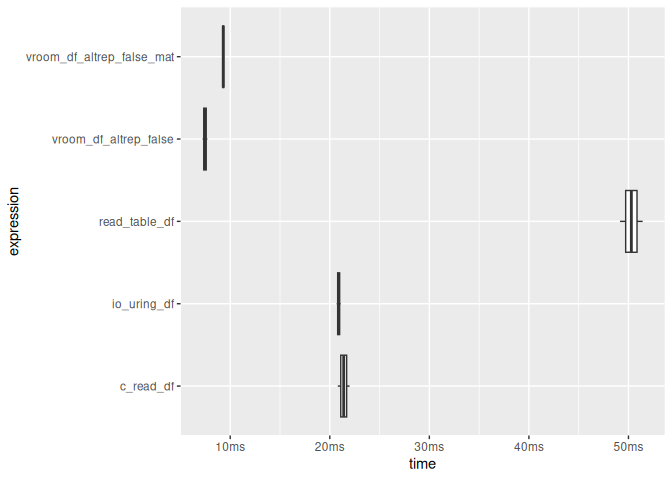
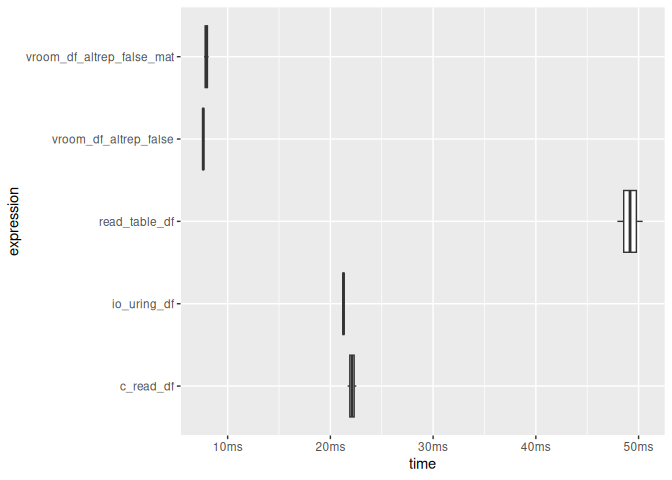
some intermdiary work

diff --git a/README.md b/README.md
@@ -190,7 +190,7 @@ tcc_read_cstring(ptr)
 tcc_read_bytes(ptr, 5)
 #> [1] 68 65 6c 6c 6f
 tcc_ptr_addr(ptr, hex = TRUE)
-#> [1] "0x6020b825c850"
+#> [1] "0x62611ab05410"
 tcc_ptr_is_null(ptr)
 #> [1] FALSE
 tcc_free(ptr)
@@ -221,11 +221,11 @@ through output parameters.
 ptr_ref <- tcc_malloc(.Machine$sizeof.pointer %||% 8L)
 target <- tcc_malloc(8)
 tcc_ptr_set(ptr_ref, target)
-#> <pointer: 0x6020b82bb6a0>
+#> <pointer: 0x62611d266410>
 tcc_data_ptr(ptr_ref)
-#> <pointer: 0x6020b66b8af0>
+#> <pointer: 0x62611ae4a9f0>
 tcc_ptr_set(ptr_ref, tcc_null_ptr())
-#> <pointer: 0x6020b82bb6a0>
+#> <pointer: 0x62611d266410>
 tcc_free(target)
 #> NULL
 tcc_free(ptr_ref)
@@ -288,8 +288,8 @@ bench::mark(
 #> # A tibble: 2 × 6
 #>   expression      min   median `itr/sec` mem_alloc `gc/sec`
 #>   <bch:expr> <bch:tm> <bch:tm>     <dbl> <bch:byt>    <dbl>
-#> 1 Rtinycc       898ms    898ms      1.11   134.1MB    11.1 
-#> 2 Rbuiltin      542µs    570µs   1187.      9.05KB     6.16
+#> 1 Rtinycc       918ms    918ms      1.09   134.1MB     16.3
+#> 2 Rbuiltin      545µs    566µs   1675.      9.05KB     12.0
 
 # For performance-sensitive code, move the loop into C and operate on arrays.
 ffi_vec <- tcc_ffi() |>
@@ -318,8 +318,8 @@ bench::mark(
 #> # A tibble: 2 × 6
 #>   expression        min   median `itr/sec` mem_alloc `gc/sec`
 #>   <bch:expr>   <bch:tm> <bch:tm>     <dbl> <bch:byt>    <dbl>
-#> 1 Rtinycc_vec    97.1µs  103.5µs     9579.    52.8KB     6.16
-#> 2 Rbuiltin_vec     17µs   18.4µs    43268.    78.2KB    34.6
+#> 1 Rtinycc_vec    97.3µs    104µs     9487.    52.8KB     15.0
+#> 2 Rbuiltin_vec     17µs   18.4µs    45775.    78.2KB     32.1
 ```
 
 ### Variadic calls (e.g. `Rprintf` style)
@@ -441,7 +441,7 @@ ffi <- tcc_ffi() |>
 
 x <- as.integer(1:100) # to avoid ALTREP
 .Internal(inspect(x))
-#> @6020cb874538 13 INTSXP g0c0 [REF(65535)]  1 : 100 (compact)
+#> @6261315b0490 13 INTSXP g0c0 [REF(65535)]  1 : 100 (compact)
 ffi$sum_array(x, length(x))
 #> [1] 5050
 
@@ -457,7 +457,7 @@ y[1]
 #> [1] 11
 
 .Internal(inspect(x))
-#> @6020cb874538 13 INTSXP g0c0 [REF(65535)]  11 : 110 (expanded)
+#> @6261315b0490 13 INTSXP g0c0 [REF(65535)]  11 : 110 (expanded)
 ```
 
 ## Advanced FFI features
@@ -484,15 +484,15 @@ ffi <- tcc_ffi() |>
 
 p1 <- ffi$struct_point_new()
 ffi$struct_point_set_x(p1, 0.0)
-#> <pointer: 0x6020bff5ca80>
+#> <pointer: 0x626122e0c670>
 ffi$struct_point_set_y(p1, 0.0)
-#> <pointer: 0x6020bff5ca80>
+#> <pointer: 0x626122e0c670>
 
 p2 <- ffi$struct_point_new()
 ffi$struct_point_set_x(p2, 3.0)
-#> <pointer: 0x6020b906b2a0>
+#> <pointer: 0x6261309d4ae0>
 ffi$struct_point_set_y(p2, 4.0)
-#> <pointer: 0x6020b906b2a0>
+#> <pointer: 0x6261309d4ae0>
 
 ffi$distance(p1, p2)
 #> [1] 5
@@ -537,9 +537,9 @@ ffi <- tcc_ffi() |>
 
 s <- ffi$struct_flags_new()
 ffi$struct_flags_set_active(s, 1L)
-#> <pointer: 0x6020bbd6bb70>
+#> <pointer: 0x62612c85ca30>
 ffi$struct_flags_set_level(s, 9L)
-#> <pointer: 0x6020bbd6bb70>
+#> <pointer: 0x62612c85ca30>
 ffi$struct_flags_get_active(s)
 #> [1] 1
 ffi$struct_flags_get_level(s)
@@ -831,7 +831,7 @@ ffi <- tcc_ffi() |>
   tcc_compile()
 
 ffi$struct_point_new()
-#> <pointer: 0x6020bbb51fe0>
+#> <pointer: 0x626130b2ff80>
 ffi$enum_status_OK()
 #> [1] 0
 ffi$global_global_counter_get()
@@ -947,11 +947,11 @@ if (Sys.info()[["sysname"]] == "Linux") {
 #> # A tibble: 5 × 13
 #>   expression     min  median `itr/sec` mem_alloc `gc/sec` n_itr  n_gc total_time
 #>   <bch:expr> <bch:t> <bch:t>     <dbl> <bch:byt>    <dbl> <int> <dbl>   <bch:tm>
-#> 1 read_tabl… 49.15ms 50.29ms      19.9    6.33MB        0     2     0    100.6ms
-#> 2 vroom_df_…  7.22ms  7.46ms     134.     1.22MB        0     2     0     14.9ms
-#> 3 vroom_df_…  9.22ms   9.3ms     108.     1.22MB        0     2     0     18.6ms
-#> 4 c_read_df   20.8ms  21.4ms      46.7    1.23MB        0     2     0     42.8ms
-#> 5 io_uring_… 20.69ms 20.89ms      47.9    1.23MB        0     2     0     41.8ms
+#> 1 read_tabl… 47.94ms 49.17ms      20.3    6.33MB        0     2     0     98.3ms
+#> 2 vroom_df_…  7.56ms  7.62ms     131.     1.22MB        0     2     0     15.2ms
+#> 3 vroom_df_…  7.71ms  7.92ms     126.     1.22MB        0     2     0     15.8ms
+#> 4 c_read_df  21.68ms  22.1ms      45.2    1.23MB        0     2     0     44.2ms
+#> 5 io_uring_… 21.19ms 21.28ms      47.0    1.23MB        0     2     0     42.6ms
 #> # ℹ 4 more variables: result <list>, memory <list>, time <list>, gc <list>
 ```
 
@@ -1142,10 +1142,10 @@ print(timings)
 #> # A tibble: 4 × 13
 #>   expression            min   median `itr/sec` mem_alloc `gc/sec` n_itr  n_gc
 #>   <bch:expr>       <bch:tm> <bch:tm>     <dbl> <bch:byt>    <dbl> <int> <dbl>
-#> 1 R                606.52ms 623.27ms      1.62     782KB    0.539     3     1
-#> 2 quickr             3.62ms   4.16ms    240.       782KB    2.62    457     5
-#> 3 Rtinycc_quick     17.02ms  17.26ms     57.8      796KB    0.503   115     1
-#> 4 Rtinycc_manual_c   55.5ms  56.25ms     17.6      796KB    0.502    35     1
+#> 1 R                600.16ms 602.72ms      1.66     782KB     0        4     0
+#> 2 quickr             3.67ms   4.03ms    247.       782KB     1.01   492     2
+#> 3 Rtinycc_quick     16.97ms  17.74ms     57.1      796KB     0      115     0
+#> 4 Rtinycc_manual_c  55.59ms  59.88ms     16.9      796KB     0       34     0
 #> # ℹ 5 more variables: total_time <bch:tm>, result <list>, memory <list>,
 #> #   time <list>, gc <list>
 plot(timings, type = "boxplot") + bench::scale_x_bench_time(base = NULL)
@@ -1189,15 +1189,13 @@ timings_roll_mean <- bench::mark(
   Rtinycc_quick = quick_tcc_roll_mean(x, weights = weights),
   min_time = 1
 )
-#> Warning: Some expressions had a GC in every iteration; so filtering is
-#> disabled.
 timings_roll_mean
 #> # A tibble: 3 × 6
 #>   expression         min   median `itr/sec` mem_alloc `gc/sec`
 #>   <bch:expr>    <bch:tm> <bch:tm>     <dbl> <bch:byt>    <dbl>
-#> 1 R               75.5ms   86.3ms      9.87     124MB    14.8 
-#> 2 quickr           2.9ms   3.92ms    255.       781KB     2.00
-#> 3 Rtinycc_quick   16.2ms  16.34ms     61.1      796KB     0
+#> 1 R              71.91ms  71.91ms      13.9     124MB   139.  
+#> 2 quickr          2.92ms   3.97ms     258.      781KB     1.01
+#> 3 Rtinycc_quick  16.21ms  16.32ms      61.1     796KB     1.02
 
 timings_roll_mean$expression <- factor(names(timings_roll_mean$expression), rev(names(timings_roll_mean$expression)))
 plot(timings_roll_mean, type = "boxplot") + bench::scale_x_bench_time(base = NULL)
@@ -1269,12 +1267,13 @@ slow_viterbi <- function(observations, states, initial_probs,
     path
 }
 
+quickr_viterbi <- quick(slow_viterbi)
 quick_viterbi <- tcc_quick(slow_viterbi, fallback = "never")
 
 set.seed(1234)
-n_steps <- 16L
-n_states <- 8L
-n_obs <- 16L
+n_steps <- 500L
+n_states <- 20L
+n_obs <- 20L
 
 observations <- sample(1:n_obs, n_steps, replace = TRUE)
 states <- 1:n_states
@@ -1293,15 +1292,19 @@ stopifnot(identical(
 timings_viterbi <- bench::mark(
   R = slow_viterbi(observations, states, initial_probs,
                    transition_probs, emission_probs),
+  quickr = quickr_viterbi(observations, states, initial_probs,
+                          transition_probs, emission_probs),
   Rtinycc_quick = quick_viterbi(observations, states, initial_probs,
-                                transition_probs, emission_probs)
+                                transition_probs, emission_probs),
+  min_time = 1
 )
 timings_viterbi
-#> # A tibble: 2 × 6
+#> # A tibble: 3 × 6
 #>   expression         min   median `itr/sec` mem_alloc `gc/sec`
 #>   <bch:expr>    <bch:tm> <bch:tm>     <dbl> <bch:byt>    <dbl>
-#> 1 R                 69µs   73.2µs    13562.    1.59KB     4.06
-#> 2 Rtinycc_quick    106µs  112.2µs     8778.   16.47KB    10.4
+#> 1 R               10.5ms   10.8ms      91.7     119KB     1.01
+#> 2 quickr         198.7µs  207.7µs    4886.        2KB     0   
+#> 3 Rtinycc_quick  715.1µs  764.3µs    1308.      173KB     2.02
 ```
 
 ### Matrix algebra and R delegation
@@ -1318,6 +1321,12 @@ in `R_GlobalEnv`, and feeds the result back into the compiled pipeline.
 This means that a function mixing scalar loops with occasional matrix
 calls compiles the loops to native code while the matrix operations
 still use R’s BLAS backend — the best of both worlds.
+
+No speedup is expected in this example: the heavy work is in `solve`,
+`crossprod`, and `%*%` (already C/BLAS in R), and the scalar loop is too
+small to matter. The point is that `tcc_quick` compiles the function
+without choking on unsupported calls — quickr, for instance, rejects
+`solve` outright.
 
 ``` r
 # A function that mixes scalar loops (compiled) with matrix operations (R).
@@ -1342,12 +1351,21 @@ fast_ols <- function(X, y) {
 quick_ols <- tcc_quick(fast_ols)
 
 set.seed(42)
-X <- cbind(1, matrix(rnorm(400), ncol = 4))
-y <- X %*% c(1, 2, -1, 0.5, 3) + rnorm(100)
+X <- cbind(1, matrix(rnorm(5000 * 4), ncol = 4))
+y <- X %*% c(1, 2, -1, 0.5, 3) + rnorm(5000)
 
 stopifnot(all.equal(fast_ols(X, y), quick_ols(X, y), tolerance = 1e-10))
-cat("Residual variance:", quick_ols(X, y), "\n")
-#> Residual variance: 1.016322
+
+bench::mark(
+  R = fast_ols(X, y),
+  Rtinycc_quick = quick_ols(X, y),
+  min_time = 1
+)
+#> # A tibble: 2 × 6
+#>   expression         min   median `itr/sec` mem_alloc `gc/sec`
+#>   <bch:expr>    <bch:tm> <bch:tm>     <dbl> <bch:byt>    <dbl>
+#> 1 R                267µs    290µs     3430.    39.8KB     1.01
+#> 2 Rtinycc_quick    259µs    278µs     3359.    93.3KB     2.03
 ```
 
 ### Bypassing the R interpreter with type declarations
@@ -1402,8 +1420,8 @@ bench::mark(
 #> # A tibble: 2 × 6
 #>   expression         min   median `itr/sec` mem_alloc `gc/sec`
 #>   <bch:expr>    <bch:tm> <bch:tm>     <dbl> <bch:byt>    <dbl>
-#> 1 R                387µs    403µs     2462.     422KB     8.20
-#> 2 Rtinycc_quick    500µs    524µs     1898.     405KB     8.24
+#> 1 R                399µs    427µs     2250.     422KB     8.30
+#> 2 Rtinycc_quick    513µs    541µs     1830.     405KB     4.07
 ```
 
 ## Known limitations
@@ -1452,11 +1470,11 @@ ffi <- tcc_ffi() |>
 o <- ffi$struct_outer_new()
 i <- ffi$struct_inner_new()
 ffi$struct_inner_set_a(i, 42L)
-#> <pointer: 0x6020bf8aea70>
+#> <pointer: 0x626136b98ec0>
 
 # Write the inner pointer into the outer struct
 ffi$struct_outer_in_addr(o) |> tcc_ptr_set(i)
-#> <pointer: 0x6020d0f11ab0>
+#> <pointer: 0x626136dc6960>
 
 # Read it back through indirection
 ffi$struct_outer_in_addr(o) |>
@@ -1485,9 +1503,9 @@ ffi <- tcc_ffi() |>
 
 b <- ffi$struct_buf_new()
 ffi$struct_buf_set_data_elt(b, 0L, 0xCAL)
-#> <pointer: 0x6020d35c54c0>
+#> <pointer: 0x6261283f5a90>
 ffi$struct_buf_set_data_elt(b, 1L, 0xFEL)
-#> <pointer: 0x6020d35c54c0>
+#> <pointer: 0x6261283f5a90>
 ffi$struct_buf_get_data_elt(b, 0L)
 #> [1] 202
 ffi$struct_buf_get_data_elt(b, 1L)
